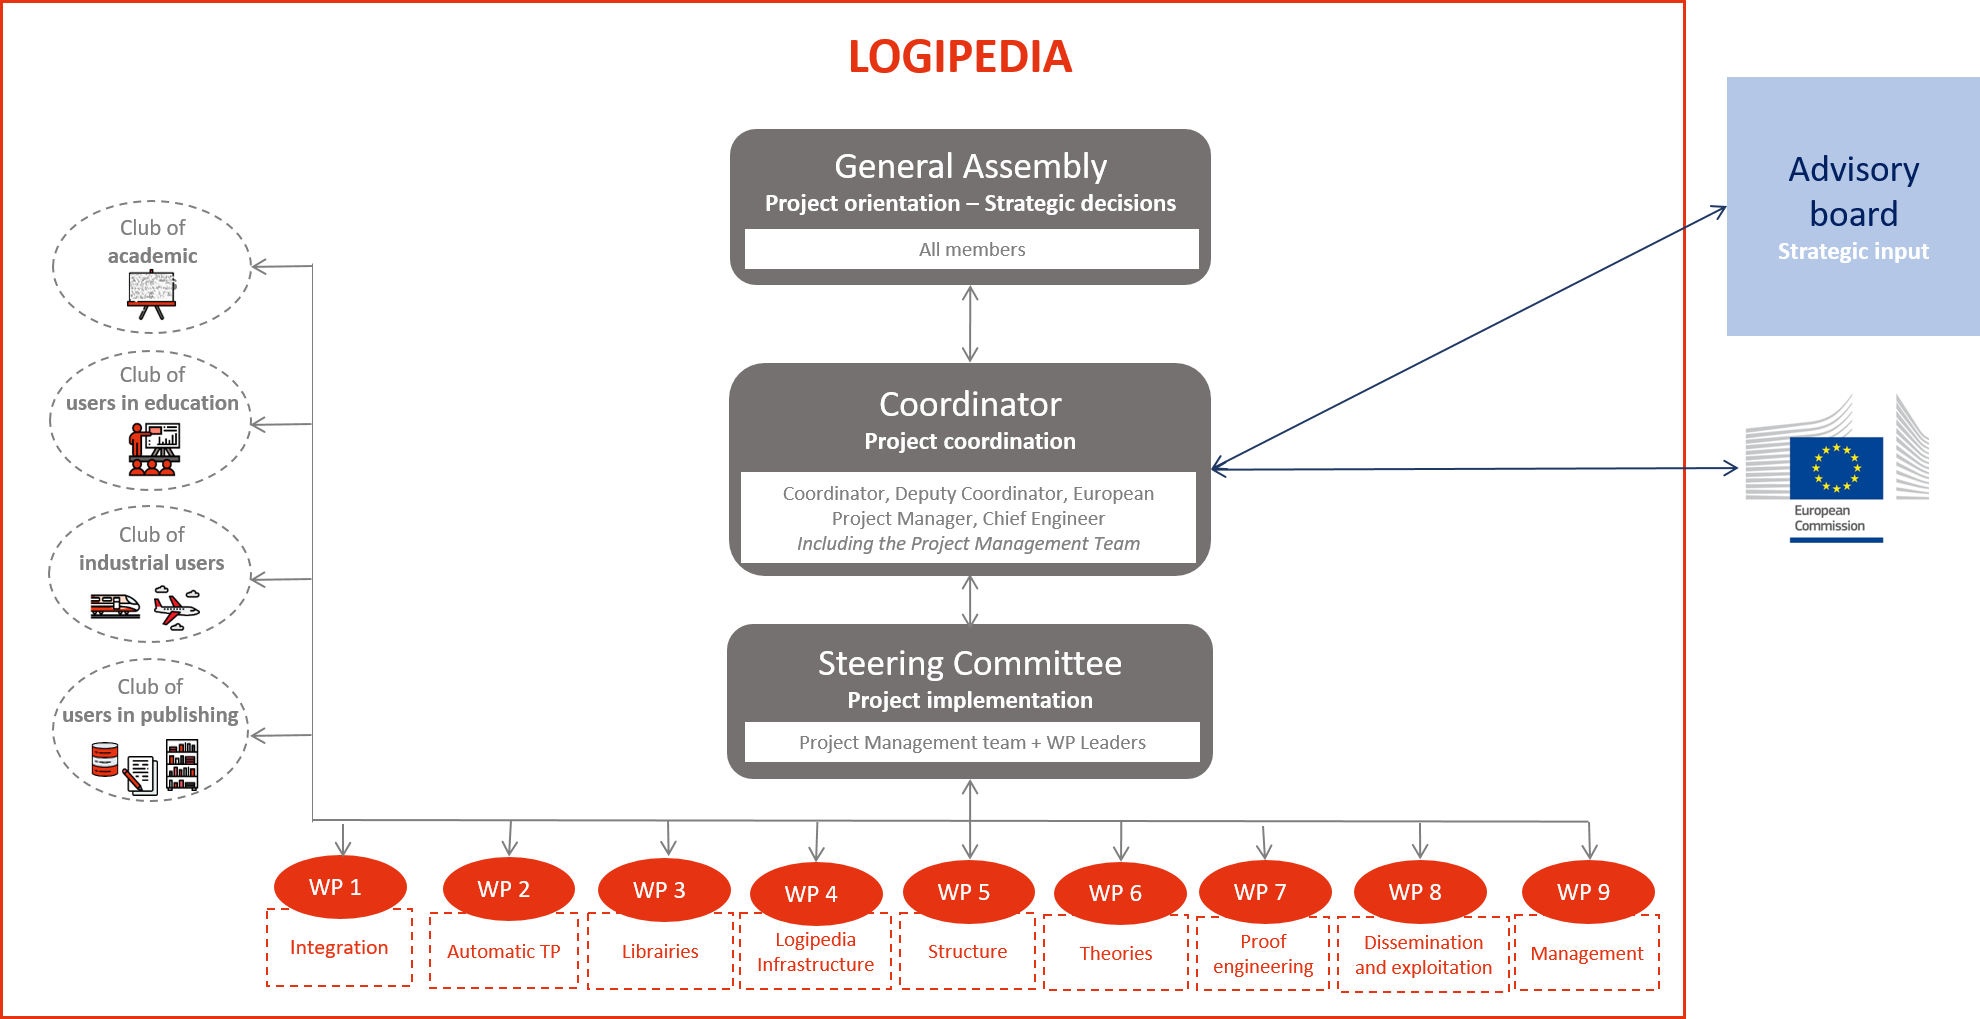
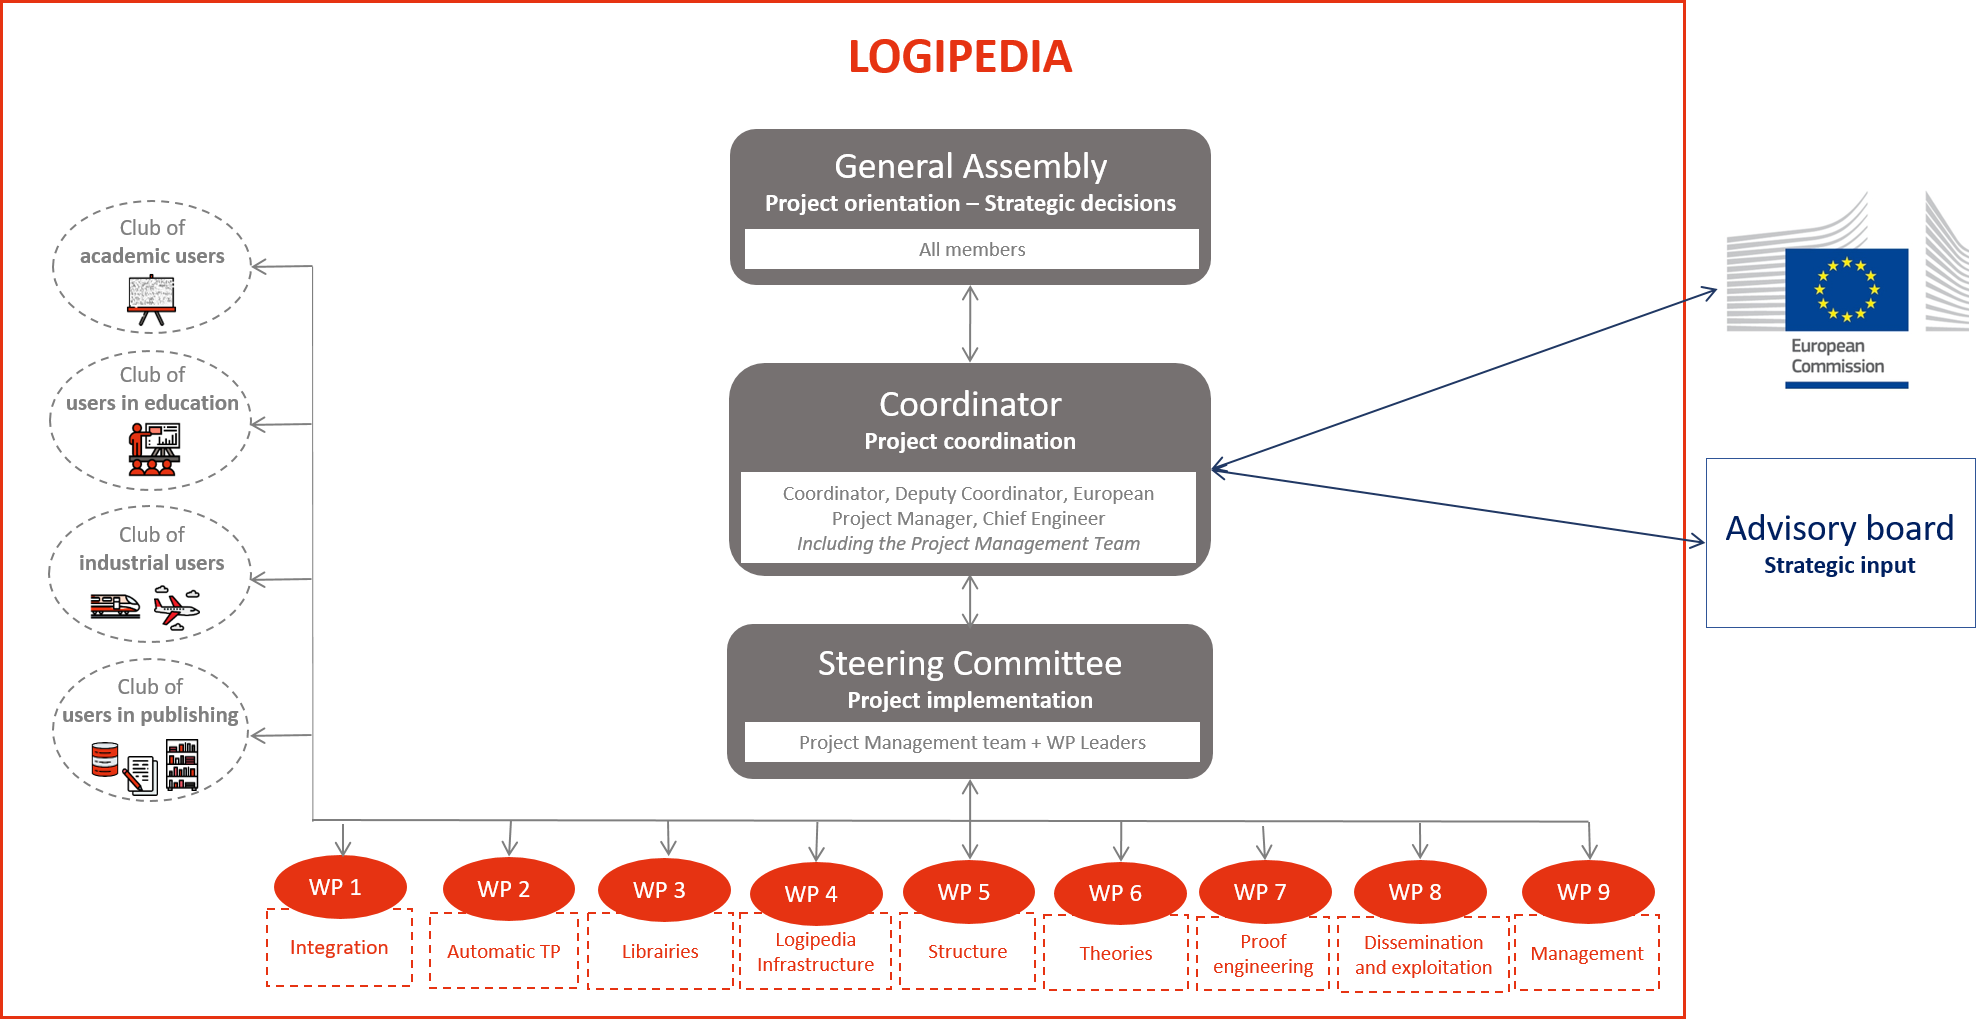
misc

diff --git a/members.tex b/members.tex
@@ -1,18 +1,5 @@
 \chapter{Members of the consortium}
 
-{\color{red} Download the template and check the part 4 complies with it}
-
-{\color{red} Add a section 4.2 with third parties (including subcontracting)
-
-Who are the subcontractors, why we need them best value for money
-
-For each subcontractor a table in the template
-
-In-kind contribution has to be described here:
-
-The partners are so commited to the successful implementation of the
-project that they have agreed to the following in-kind contributions}
-
 \section{Individual Participants}
 \label{sec:partners}
 
@@ -48,49 +35,89 @@ project that they have agreed to the following in-kind contributions}
 
 \section{Third parties involved in the project (including use of third party resources)}
 
-\subsection*{Subcontracting}\label{sec:subcontracting}
+\subsection{FAU: Friedrich-Alexander Universität Erlangen-Nürnberg (DE)}
+
+\begin{longtable}{|p{0.75\textwidth}|p{0.2\textwidth}|}
+\hline
+{\bf Does the participant plan to subcontract certain tasks (please
+  note that core tasks of the project should not be sub-contracted)?}
+&
+Y
+\\
+\hline
+The subcontractor has spent the last ten years building the technological
+prerequisites for the required work. 
+&
+\\
+\hline
+{\bf Does the participant envisage that  part of its work is performed
+  by linked third parties?}
+&
+N
+\\
+\hline
+If yes, please describe the third party, the link of the
+participant to the third party, and describe and justify the foreseen
+tasks to be performed by the third party
+&
+\\
+\hline
+{\bf Does the participant envisage the use of contributions in kind
+provided by third parties (Articles 11 and 12 of the General Model
+Grant Agreement)?}
+&
+N
+\\
+\hline
+If yes, please describe the third party and their contributions
+&
+\\
+\hline
+\end{longtable}
 
 
-{\color{red}
+
+\subsection{TUM: Technische Universität München (DE)}
+
+\begin{longtable}{|p{0.75\textwidth}|p{0.2\textwidth}|}
+\hline
+{\bf Does the participant plan to subcontract certain tasks (please
+  note that core tasks of the project should not be sub-contracted)?}
+&
+Y
+\\
+\hline
+The subcontractor has spent the last ten years building the technological
+prerequisites for the required work. 
+&
+\\
+\hline
+{\bf Does the participant envisage that  part of its work is performed
+  by linked third parties?}
+&
+N
+\\
+\hline
+If yes, please describe the third party, the link of the
+participant to the third party, and describe and justify the foreseen
+tasks to be performed by the third party
+&
+\\
+\hline
+{\bf Does the participant envisage the use of contributions in kind
+provided by third parties (Articles 11 and 12 of the General Model
+Grant Agreement)?}
+&
+N
+\\
+\hline
+If yes, please describe the third party and their contributions
+&
+\\
+\hline
+\end{longtable}
 
 
-  Do not speak about subcontracting or in-kind here. It is in part 4.2}
-
-
-
-The tasks \taskref{instrumentation}{isabelle},
-\taskref{libraries}{afp} (both handled by \site{Tum}) and part of
-\taskref{structuring}{strontorepml} (handled by \site{Fau}) will
-be carried out by subcontracting Dr.\ M.\ Wenzel.  Each subcontract
-will cover roughly the equivalent of $3$ person-months.  Concretely,
-it concerns the export of proof terms and other data from the Isabelle
-system.  Wenzel is the main Isabelle developer and has spent the
-last $10$ years building the technological prerequisites for the
-required work and is the natural person to carry it out.  However, he
-has left academia and started his own enterprise that specializes on
-Isabelle kernel development and routinely carries out subcontracts for
-Isabelle-related research projects.  Therefore, a subcontract is the
-best option as developing the necessary expertise in-house would take
-an additional 6-12 person-months per task.  \site{Fau} has already worked with
-Wenzel in similar subcontracts twice before (including the
-OpenDreamKit EU infrastructure project), and the collaborations have
-been very effective and efficient. Wenzel obtained his Ph.D. at
-\site{Tum} advised by Nipkow.
-
-The task \taskref{instrumentation}{isabelle} (handled by \site{Tum})
-requires special assistance by Dr.\ David Matthews (PROLINGUA LTD,
-Edinburgh): As provider of the underlying Poly/ML infrastructure,
-Matthews is in a unique position to provide extra scalability of ML
-heap management, and thus allow Isabelle to export more library
-material.
-
-{\bf Cost.} \site{Tum} asks for
-EUR~50.000 and \site{Fau} for EUR~20.000 to subcontract Dr.\ M.\ Wenzel to
-carry out (part of) the work in task
-\taskref{instrumentation}{isabelle}, \taskref{libraries}{afp} and
-\taskref{structuring}{strontorepml}. Further EUR~15.000 are required
-by \site{Tum} to subcontract Dr.\ D.\ Matthews to participate in
-critical parts of task \taskref{instrumentation}{isabelle}.
 
 %%% Local Variables:
 %%% mode: latex

diff --git a/implementation.tex b/implementation.tex
@@ -21,19 +21,14 @@
 \wpfig%[type]%pages,type,start,end]
 
 
+Cost breakdown per actvity:
 80\% of the budget funds the seven scientific and technological work
-pacakges (17\% for WP1, 13\% for WP2, 8\% for WP3, 7\% for WP4, 8\%
-for WP5, 16\% for WP6, and 10\% for WP7), 11\% is for the work package
-``Dissemination, communication, and exploitation'', and 9\% for the
-work package ``Management''.
+packages (17\%, 13\%, 8\%, 7\%, 8\%, 16\%, and 10\%), 11\% is for the
+work package ``Dissemination, communication, and exploitation'', and
+9\% for the work package ``Management''.
 
-{\color{red}
-Cost breakdown per type
-
-Personnel, travel cost (conferences), give amount of overheads,
-reaching the stakeholders}
-
-
+Cost breakdown of direct cost per type: 87\% of the budget is for personnel,
+11\% for missions, and 1\% for subcontracting. 
 
 Note that 48\% of the budget is allocated to French partners.  This
 was difficult to avoid because the coordinating site is French and
@@ -45,7 +40,6 @@ centers of excellence in formal proofs are represented.
 
 
 
-%%%%%%%%%%%%%%%%%%%%%%%%%%%%%%%%%%%%%%%%%%%%%%%%%%%%%%%%%%%%%%%%%%%%%%%%%%%%%%
 
 \subsection*{In-kind contributions on the beneficiary’s premises}
 
@@ -55,12 +49,15 @@ contributions. That is why the requested EU Contribution (K) of our
 consortium is a smaller amount than the max EU contribution (J). The
 community supporting the Logipedia project is wide but each partner
 has been thoroughly selected and is necessary for the success of the
-project. A budget of 5 millions euros is too limited to support all
-the efforts of the community. The difference between the total
+project.
+A budget of 5 millions euros is too limited to support all
+the efforts of the community.
+The partners are so commited to the successful implementation of the
+project that they have agreed in-kind contributions.
+The difference between the total
 eligible costs for the project and the requested will therefore be
 supported by some partners as an-kind contribution.
 
-{\color{red} Justify your in-kind contributions here}
 
 Site \site{Lie} is going to contribute 7 PM in-kind for the whole duration of the project.
 This contribution is already funded by the University of Liège.
@@ -85,7 +82,6 @@ This contribution is already funded by the TOULOUSE INP.
 
 Site \site{Lmu} is going to contribute 6 PM in-kind for the whole duration of the project.
 This contribution is already funded by the Ludwig-Maximilians-Universit\"at M\"unchen.
-
 
 \subsection*{Justification for mission costs}
 

diff --git a/management.tex b/management.tex
@@ -6,7 +6,7 @@ large consortium and its ongoing network development.
 %%%%%%%%%%%%%%%%%%%%%%%%%%%%%%%%%%%%%%%%%%%%%%%%%%%%%%%%%%%%%%%%%%%%%%%%%%%%%%
 \subsection*{Organisational structure}
 
-\includegraphics[width=\textwidth]{img/Gouvernance-reduced}
+\includegraphics[width=\textwidth]{img/Gouvernance}
 
 \subsubsection*{The project management team}
 

diff --git a/sites/FAU.tex b/sites/FAU.tex
@@ -1,6 +1,6 @@
 \begin{sitedescription}{Fau}
 
-  \logo{FAU}
+\logo{FAU}
   
 FAU is the second largest state university in the state Bavaria.
 It has 5 faculties, 23 departments/schools, 30 clinical departments, 19 autonomous departments, 656 professors, and about 40\,000 students.

diff --git a/expectedimpact.tex b/expectedimpact.tex
@@ -1,6 +1,3 @@
-
-{\color{red} repead head of rows at each page}
-
 \begin{longtable}{|p{0.2\textwidth}|p{0.75\textwidth}|}
 %%%%%%%%%%%%%%%%%%%%%%%%%%%%%%%%%%%%%%%%%%%%%%%%%%%%%%%%%%%%%%%%%%%%%%%%%%%%%%
 \hline
